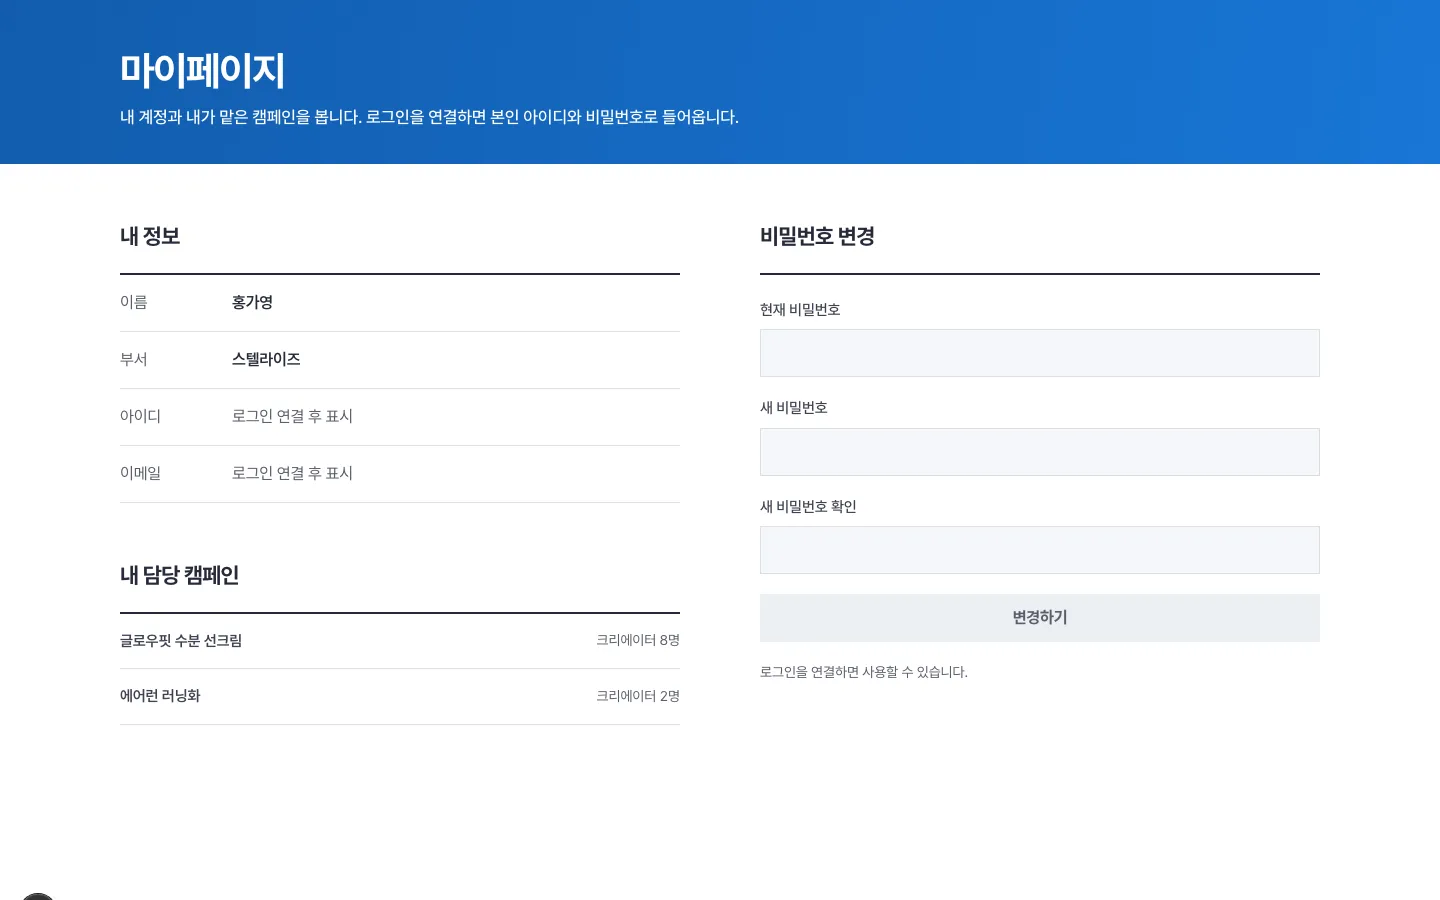
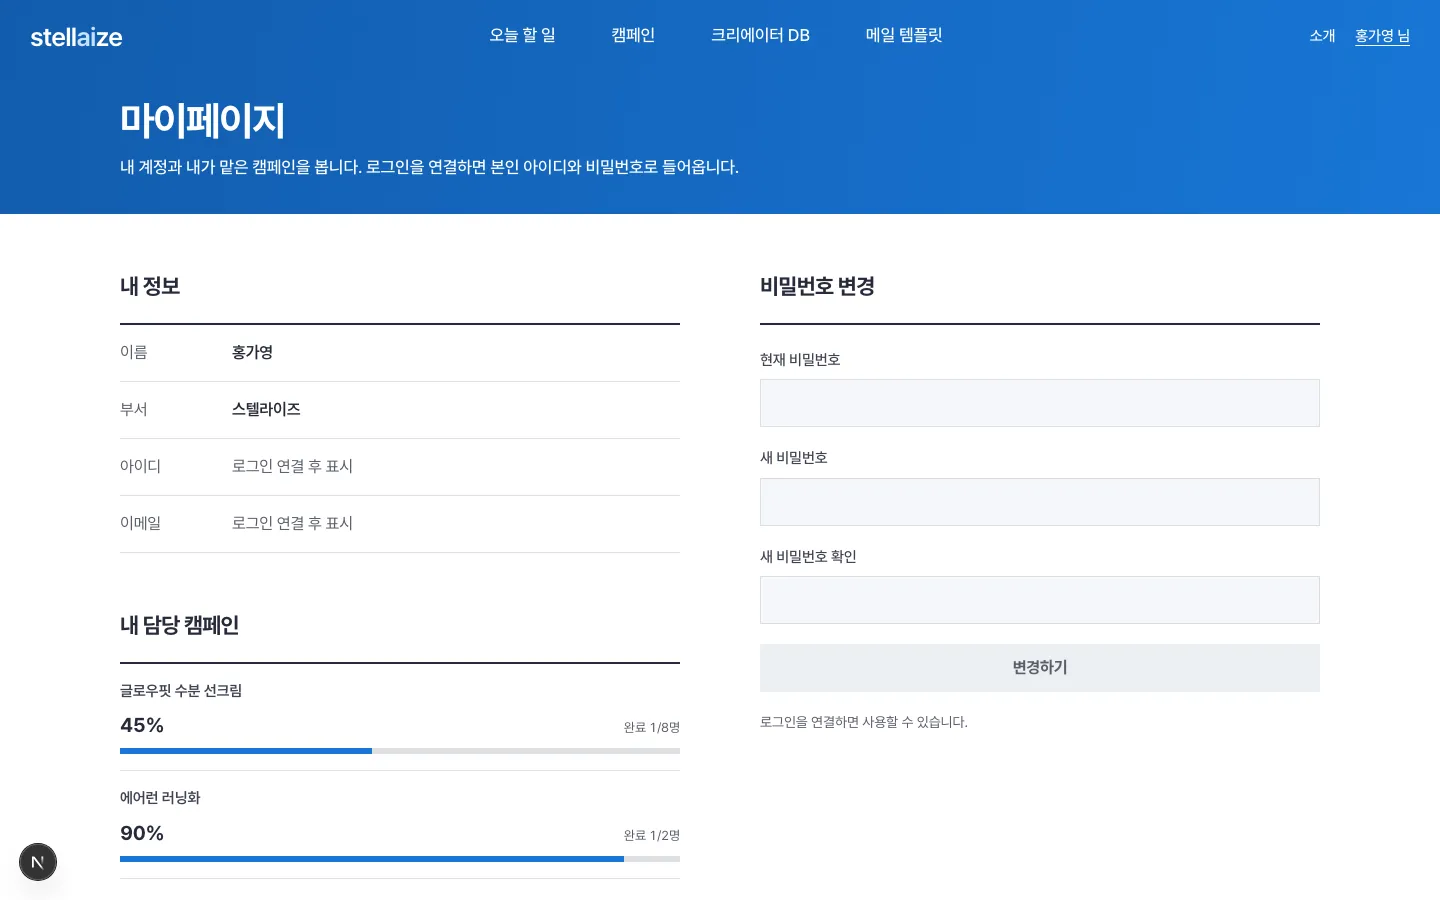
Add progress bars, drop glossary, refresh README
- Progress (% + bar + completed count) on campaign list, campaign board, and my page
- Shared ProgressBar component; progressPct covered by the date self-check
- Remove 용어 사전 from the menu, about page, and plan
- README: progress explanation, updated screen table and screenshots

diff --git a/app/campaigns/page.tsx b/app/campaigns/page.tsx
@@ -3,7 +3,8 @@ import Link from "next/link";
 import { connection } from "next/server";
 import { PageBand, pageWrap, table } from "@/components/PageBand";
 import { WAITING } from "@/components/badges";
-import { progressPct, todayKST } from "@/lib/date";
+import { todayKST } from "@/lib/date";
+import { ProgressBar } from "@/components/ProgressBar";
 import { demo, type WaitingOn } from "@/lib/demo";
 
 export const metadata = { title: "캠페인 │ Campaign Hub │ 스텔라이즈" };
@@ -46,8 +47,6 @@ async function Campaigns() {
             </thead>
             <tbody>
               {campaigns.map((c, i) => {
-                const pct = progressPct(c.creators.map((cc) => cc.stage));
-                const finished = c.creators.filter((cc) => cc.stage === "완료").length;
                 return (
                 <tr key={c.id} className="hover:bg-[#f5f7fa]">
                   <td className={table.td}>
@@ -60,22 +59,7 @@ async function Campaigns() {
                     </span>
                   </td>
                   <td className={`${table.td} w-[200px]`}>
-                    <p className="flex items-baseline justify-between">
-                      <b className="text-[20px] tracking-[-0.02em] text-ink-900 tabular-nums">{pct}%</b>
-                      <span className="text-[13px] text-ink-600 tabular-nums">
-                        완료 {finished}/{c.creators.length}명
-                      </span>
-                    </p>
-                    <div
-                      role="progressbar"
-                      aria-label={`${c.brand} ${c.product} 진행률`}
-                      aria-valuenow={pct}
-                      aria-valuemin={0}
-                      aria-valuemax={100}
-                      className="mt-2 h-1.5 bg-line"
-                    >
-                      <div className="grow-x h-full bg-primary-600" style={{ width: `${pct}%`, "--delay": `${200 + i * 120}ms` } as React.CSSProperties} />
-                    </div>
+                    <ProgressBar label={`${c.brand} ${c.product}`} stages={c.creators.map((cc) => cc.stage)} delay={200 + i * 120} />
                   </td>
                   <td className={table.td}>{c.advertiser}</td>
                   <td className={table.td}>{c.channel}</td>

diff --git a/app/mypage/page.tsx b/app/mypage/page.tsx
@@ -2,6 +2,7 @@ import { Suspense } from "react";
 import Link from "next/link";
 import { connection } from "next/server";
 import { PageBand, pageWrap } from "@/components/PageBand";
+import { ProgressBar } from "@/components/ProgressBar";
 import { todayKST } from "@/lib/date";
 import { CURRENT_USER, demo } from "@/lib/demo";
 
@@ -46,14 +47,14 @@ async function Mine() {
 
           <h2 className={`${h2} mt-14`}>내 담당 캠페인</h2>
           <ul className="mt-5 border-t-2 border-ink-900">
-            {mine.map((c) => (
-              <li key={c.id} className="border-b border-line">
-                <Link href={`/campaigns/${c.id}`} className="flex items-center justify-between gap-4 py-4 hover:text-primary-600">
-                  <span className="font-semibold">
-                    {c.brand} {c.product}
-                  </span>
-                  <span className="text-[14px] text-ink-600 tabular-nums">크리에이터 {c.creators.length}명</span>
+            {mine.map((c, i) => (
+              <li key={c.id} className="border-b border-line py-4">
+                <Link href={`/campaigns/${c.id}`} className="font-semibold underline-offset-4 hover:text-primary-600 hover:underline">
+                  {c.brand} {c.product}
                 </Link>
+                <div className="mt-2">
+                  <ProgressBar label={`${c.brand} ${c.product}`} stages={c.creators.map((cc) => cc.stage)} delay={200 + i * 120} />
+                </div>
               </li>
             ))}
           </ul>

diff --git a/app/campaigns/[id]/page.tsx b/app/campaigns/[id]/page.tsx
@@ -3,6 +3,7 @@ import { connection } from "next/server";
 import { notFound } from "next/navigation";
 import { PageBand } from "@/components/PageBand";
 import { KanbanBoard } from "@/components/KanbanBoard";
+import { ProgressBar } from "@/components/ProgressBar";
 import { WAITING, OVERDUE_DAYS, DdayText } from "@/components/badges";
 import { daysBetween, reportDue, todayKST } from "@/lib/date";
 import { demo, type WaitingOn } from "@/lib/demo";
@@ -48,6 +49,10 @@ async function Campaign({ params }: PageProps<"/campaigns/[id]">) {
       </PageBand>
 
       <main className="mx-auto max-w-[1260px] px-5 md:px-[30px]">
+        <section className="border-b border-line py-8">
+          <h2 className="mb-3 text-[16px] font-bold text-ink-900">캠페인 진행률</h2>
+          <ProgressBar size="lg" label={`${campaign.brand} ${campaign.product}`} stages={creators.map((cc) => cc.stage)} />
+        </section>
         {/* Incross news bar: 4 equal columns split by 1px vertical lines */}
         <section className="grid grid-cols-2 gap-y-8 border-b border-line py-8 md:grid-cols-4 md:divide-x md:divide-line md:py-9">
           {parties.map((p) => {

diff --git a/components/ProgressBar.tsx b/components/ProgressBar.tsx
@@ -1,0 +1,21 @@
+import type { CSSProperties } from "react";
+import { progressPct, type Stage } from "@/lib/date";
+
+// Campaign progress: big percent, "완료 n/m명", and a bar that fills from the left.
+export function ProgressBar({ label, stages, delay = 200, size = "md" }: { label: string; stages: Stage[]; delay?: number; size?: "md" | "lg" }) {
+  const pct = progressPct(stages);
+  const finished = stages.filter((s) => s === "완료").length;
+  return (
+    <div>
+      <p className="flex items-baseline justify-between gap-3">
+        <b className={`tracking-[-0.02em] text-ink-900 tabular-nums ${size === "lg" ? "text-[28px]" : "text-[20px]"}`}>{pct}%</b>
+        <span className="text-[13px] text-ink-600 tabular-nums">
+          완료 {finished}/{stages.length}명
+        </span>
+      </p>
+      <div role="progressbar" aria-label={`${label} 진행률`} aria-valuenow={pct} aria-valuemin={0} aria-valuemax={100} className={`mt-2 bg-line ${size === "lg" ? "h-2" : "h-1.5"}`}>
+        <div className="grow-x h-full bg-primary-600" style={{ width: `${pct}%`, "--delay": `${delay}ms` } as CSSProperties} />
+      </div>
+    </div>
+  );
+}

diff --git a/app/about/page.tsx b/app/about/page.tsx
@@ -27,7 +27,7 @@ const AFTER = [
   { title: "단계별 체크리스트", body: "단가 회신부터 피저체크, 날인본, 최종본 컨펌까지 카드 안에서 체크합니다." },
 ];
 
-const NEXT = ["실제 데이터 연결 (Supabase)", "로그인 (아이디·비밀번호)", "대외비 캠페인 접근 제한", "메일 템플릿", "용어 사전"];
+const NEXT = ["실제 데이터 연결 (Supabase)", "로그인 (아이디·비밀번호)", "대외비 캠페인 접근 제한", "메일 템플릿"];
 
 // Sample cards in the opening band: the waiting party rotates, which is the product's whole idea in one motion.
 const HERO_CARDS: { name: string; stage: string; states: [WaitingOn, number][]; indent: string }[] = [

diff --git a/app/not-found.tsx b/app/not-found.tsx
@@ -7,7 +7,7 @@ export default function NotFound() {
     <>
       <PageBand title="아직 만들지 않은 화면입니다" />
       <main className={`${pageWrap} py-12`}>
-        <p className="text-[17px] leading-relaxed text-ink-800">메일 템플릿과 용어 사전은 순서대로 만들 예정입니다.</p>
+        <p className="text-[17px] leading-relaxed text-ink-800">메일 템플릿은 순서대로 만들 예정입니다.</p>
         <div className="mt-8 flex flex-wrap gap-3">
           <Link href="/today" className="inline-flex h-12 items-center bg-primary-600 px-6 text-[16px] font-bold text-white hover:bg-primary-700">
             오늘 할 일로 가기

diff --git a/components/SiteHeader.tsx b/components/SiteHeader.tsx
@@ -7,7 +7,6 @@ const MENU = [
   { href: "/campaigns", label: "캠페인" },
   { href: "/creators", label: "크리에이터 DB" },
   { href: "/templates", label: "메일 템플릿" },
-  { href: "/glossary", label: "용어 사전" },
 ];
 
 // Incross #header: transparent over the hero, logo | centered GNB | utility, 2px underline on the active menu.
